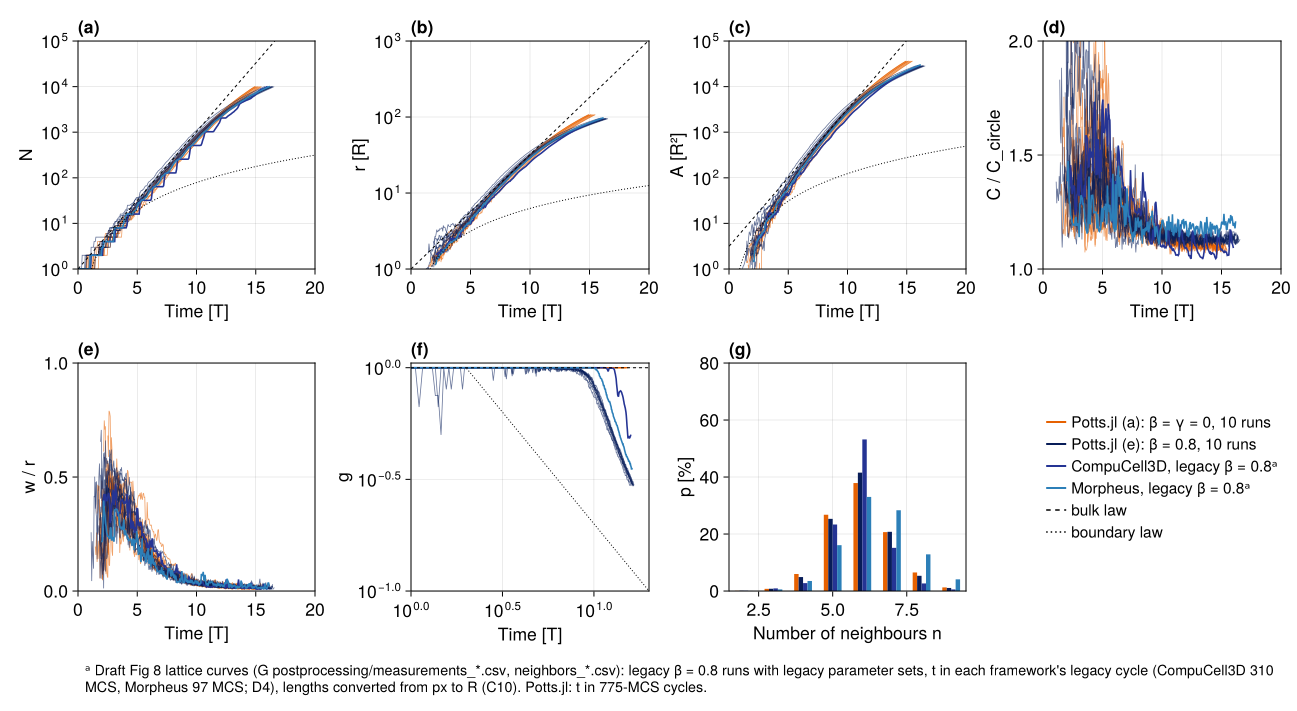
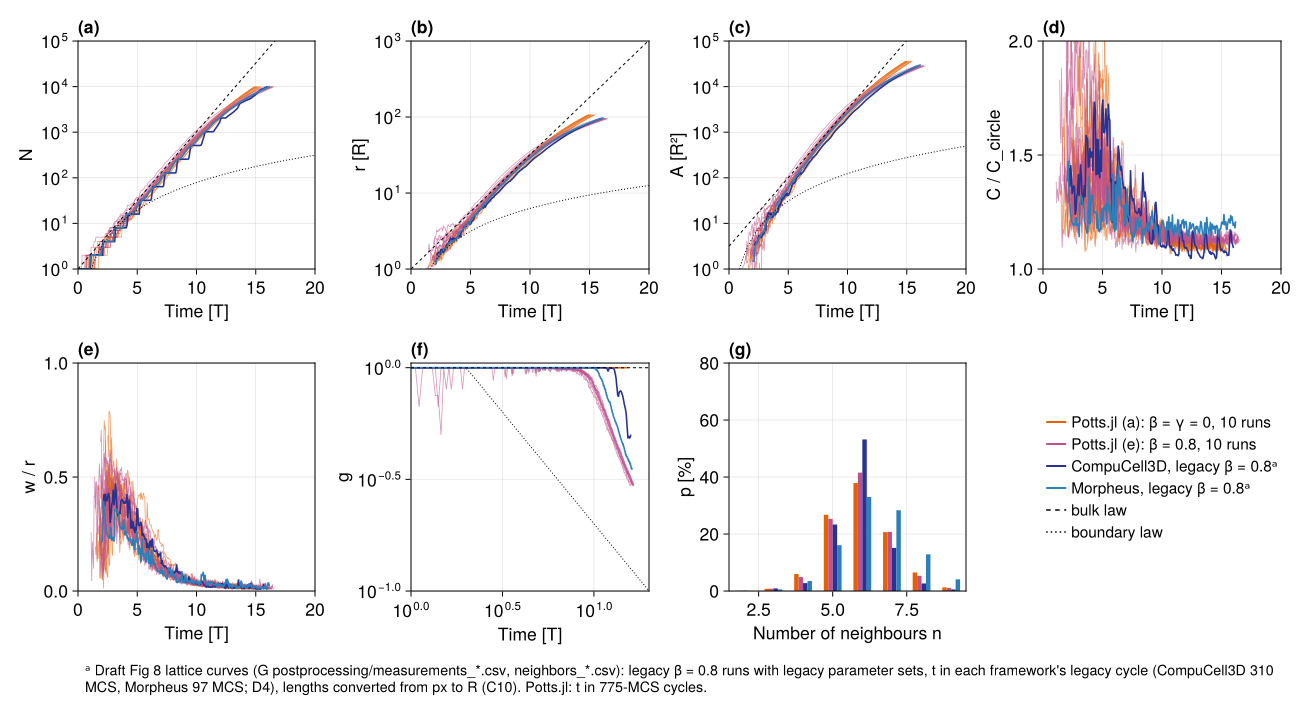
P6.15f review round 1: README (V1 warning, discrimination, dry run, timing), Fig 8 colours, openvt_frame docstring
README only for the record (no data or frozen file changed): the case (a)
time to 10⁴ cells as a V1 warning for P6.15g; which rows cannot fail or
cannot separate the cases, and which discriminate; the post-freeze dry
run; 16–29 min per 10⁴-cell run; the frozen FULL tier's :dynamic
scheduling. Fig 8: case (e) magenta, distinct from CompuCell3D.
openvt_frame docstring: the arrays are copied twice.

diff --git a/lib/PottsModels/reproductions/data/15/f3-f8-2026-10-08/README.md b/lib/PottsModels/reproductions/data/15/f3-f8-2026-10-08/README.md
@@ -2,8 +2,15 @@
 
 This is the offline record required by D-146, pre-registered by D-173.
 
-- **Run.** `run_f3_f8.jl` at commit `a64ae188` on the PC (praneeth-NucBox-EVO-X2, AMD Ryzen AI Max+ 395, Julia 1.12.6). It ran with 12 threads pinned to `taskset -c 0-11,16-27`, under a 24 GB memory cap (`systemd-run --user --scope -p MemoryMax=24G`). Wall time was 2790 s, and the 240 runs took 33,171 CPU-s (9.2 core-hours). The D-173 estimate was 3.3 core-hours. Each 10⁴-cell run costs 20–29 min on one thread, and those 20 runs are 85 % of the total. `provenance.toml` holds the workspace Manifest's sha256.
+- **Run.** `run_f3_f8.jl` at commit `a64ae188` on the PC (praneeth-NucBox-EVO-X2, AMD Ryzen AI Max+ 395, Julia 1.12.6). It ran with 12 threads pinned to `taskset -c 0-11,16-27`, under a 24 GB memory cap (`systemd-run --user --scope -p MemoryMax=24G`). Wall time was 2790 s, and the 240 runs took 33,171 CPU-s (9.2 core-hours). The D-173 estimate was 3.3 core-hours. Each 10⁴-cell run costs 16–29 min on one thread (947–1747 s), and those 20 runs are 85 % of the total. `provenance.toml` holds the workspace Manifest's sha256.
   - A first launch used `Threads.@threads :dynamic`. That scheduler splits the job list into 12 contiguous chunks, so all 20 large runs landed on one thread. It was stopped after 20 min and relaunched with `:greedy`. No output of the first launch was kept. Scheduling does not change a run (each run's RNG is its seed).
+  - The frozen test's FULL tier (`p615f_runs`, `REPRO=full`) still uses `:dynamic`. A rerun through it hands all 20 large runs to one thread and takes several times longer. That changes the time, not the result.
+  - **Dry run after the freeze.** One dry run was made before the record, on 2026-10-08 between 00:13 and 00:15, on the PC, in `~/potts-ci/p6-15f-impl-out/dry/` (not committed).
+    - **What ran.** A patched copy of the test and runner, with 12 runs: 2–3 per case, and cases (a) and (e) on 400² stopped at about 300 cells.
+    - **Attempts.** It took three attempts. The first stopped on the runner's hard-coded lattice table. The second stopped at the verdict stage, because the runner's statistics hard-coded the 10⁴ stop.
+    - **What it checked.** That the runner writes the frozen schema and that the verdict path runs end to end.
+    - **What changed afterwards.** The runner edits were mechanical: the lattice table and stop count taken from `P615F_CASES`, and a summation-order tolerance in the TSV round-trip check. The thread scheduler changed later, after the first FULL launch.
+    - Its values are not comparable with the record (different lattices and stops for (a) and (e)). No band, rule, seed or protocol changed in response to them.
 - **Same computation as the frozen test.** The runner loads every top-level `P615F_*` constant and `p615f_*` function of `lib/PottsModels/test/reproductions/15_openvt_f3_f8.jl` (sha256 `da7d145f…`) verbatim, by evaluating that file's source without its testsets and tiers. It then runs the test's recorder (`p615f_run`) and rules (`p615f_verdicts`). The test's record tier recomputes every verdict from `runs.tsv`, `timeseries.tsv` and `neighbors.tsv`. The runner also checked that the verdicts from the written TSVs equal those from the in-memory series.
 - **Protocol** (D-173).
   - Model: `OpenVTReferenceMonolayer` at Table S1, starting from one disc cell at the centre.
@@ -86,6 +93,26 @@ No G file entered git. The G-derived content in git is:
 - **V5.** Cases (a) and (e) both follow the bulk law 2^t until a few hundred cells, then bend toward boundary-limited growth (`fig8.png` a–c).
   - On the pre-registered window the slopes are 1.022 and 1.009, and the offsets 0.60 and 0.49.
   - The control (γ = 10⁻⁴: interior cells arrest) bends early: slope 0.647, L = 6.74 at t = 8.5.
+- **What the rows can and cannot tell apart** (information; all of it follows from the pre-registered rows, nothing was changed).
+  - **Rows that cannot fail:**
+    - F8.1 (g ≡ 1 at β = γ = 0) holds by construction: no cell is ever inhibited.
+    - F8.2 is the isoperimetric inequality, true of any closed curve.
+    - F8.3's band, [5.54, 6.78], surrounds 6, the Euler value of the mean neighbour number of any confluent planar tiling.
+  - **Rows that do not separate the cases:**
+    - V5 does not separate β = 0.8 from β = 0 on its window (t = 0.5–8.5): (a) 1.022 / 0.601 and (e) 1.009 / 0.492 both pass, because type-1 inhibition acts only later.
+    - Our case (f) also passes F3.1–F3.4 against TST *stochastic*, with max |ΔL| 0.18, t̄_s ratio 0.974, max |Δr̄| 7.6 % and max |ΔĀ| 14.6 %. So F3.1–F3.4 do not tell the deterministic from the stochastic protocol.
+  - **The rows that discriminate:**
+    - F3.5 for (f): synchrony 1.00, against 0.19 for (b).
+    - The end values of (b) in F3.3/F3.4: r̄_e 1.105 and Ā_e 3.84, against (f)'s 0.977 and 3.01.
+    - F3.2's time to 1000 cells.
+    - F8.4: g at 10⁴ cells, 0.297 for (e) against 1 for (a).
+  - **The controls exercise the failure paths but sit far from the band edges:** F3.1 1.43 (band ≤ 0.3), F3.2 2.02 (≤ 1.05), V5.1 0.647 (≥ 0.9) and F3.5 0.19 (≥ 0.9). None targets F3.3, F3.4, F8.3 or F8.4.
+- **Warning for V1 (information; V1 is P6.15g's target and is judged there).**
+  - Case (a), uninhibited Table S1, reaches 10⁴ cells at 15.17 cycles (14.92–15.49). Spec V1 gives 13.57 ± 10 %, a band of [12.21, 14.93]. We are about 11.8 % slow, with 9 of 10 runs above the band.
+  - Like for like, case (e) at β = 0.8 matches TST: 16.26 cycles against TST's 16.15 (`G:results/TST/TST_time_to_10k_vs_beta.csv`).
+  - The gap opens in the boundary-limited stretch from 10³ to 10⁴ cells. TST takes about 3.3 cycles there (13.57 − 10.24). We take 4.6–4.8: 4.63 within case (a)'s own runs, 4.81 from case (b)'s t̄_s.
+  - That stretch lies past the F3 and V5 windows (t ≤ 8.5 and 1000 cells), which is why F3 and F8 pass here while V1 and the F5 rim statistics do not.
+  - It is consistent with the F5 deviations and with the leading candidate there, actual-area against target-area division (C13, Q20).
 - **F8.3 and F8.4 against the legacy curves** (information on units: those curves are legacy β = 0.8 runs in legacy cycles, D4, Q7).
   - Case (a)'s mean neighbour number is 5.970, between CompuCell3D's 5.842 and Morpheus's 6.480. Case (e)'s is 5.976.
   - Case (e)'s final g is 0.297, below Morpheus's 0.350 and CompuCell3D's 0.499, inside the band.
